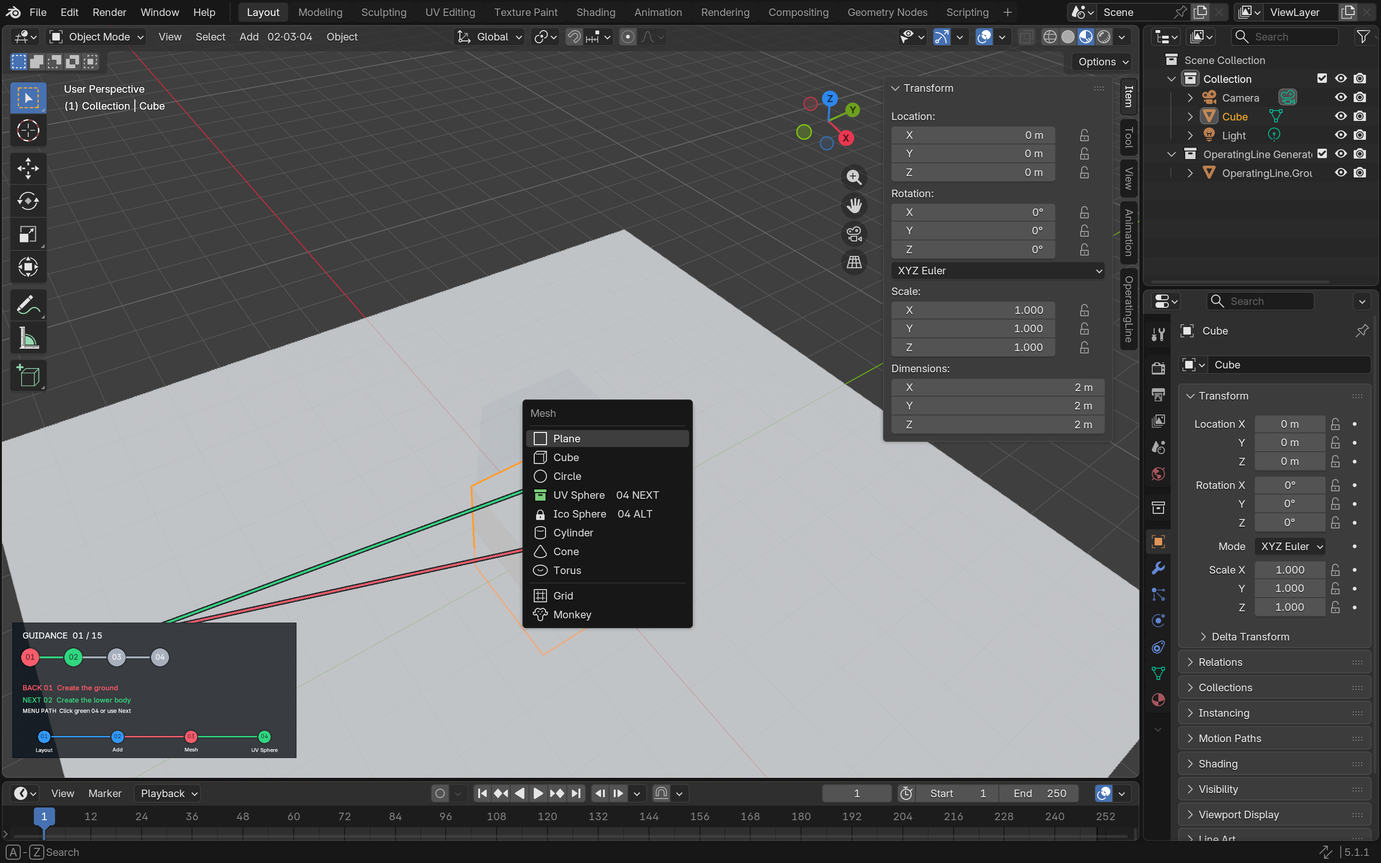
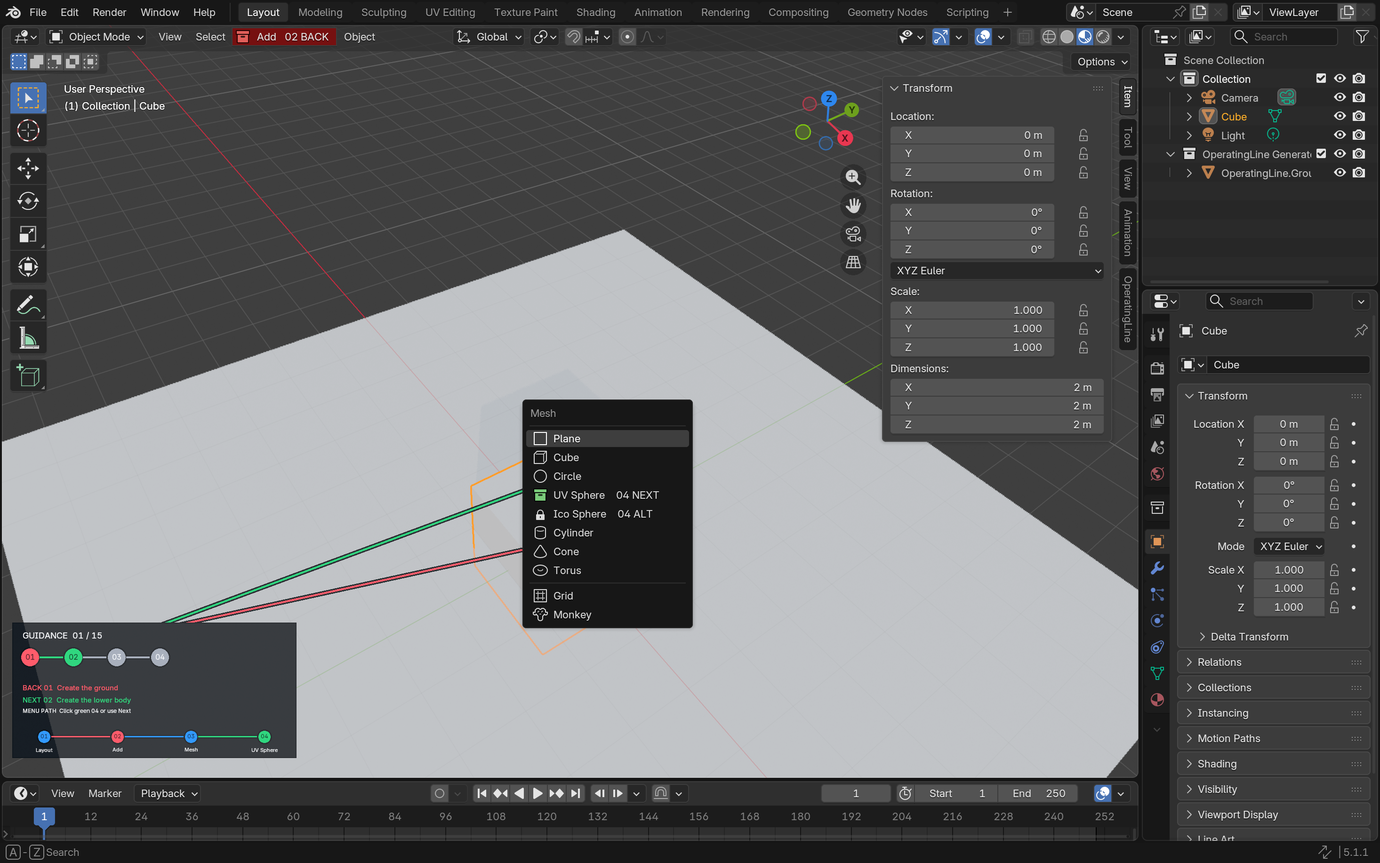
feat(blender): color guided menu states

diff --git a/tests/unit/blender/test_menu_guidance.py b/tests/unit/blender/test_menu_guidance.py
@@ -18,6 +18,7 @@ application = import_module(f"{PACKAGE_NAME}.application")
 domain = import_module(f"{PACKAGE_NAME}.domain")
 
 GuidanceState = application.GuidanceState
+MenuGuidanceRole = application.MenuGuidanceRole
 MenuGuidanceTracker = application.MenuGuidanceTracker
 ActionSpec = domain.ActionSpec
 TaskNode = domain.TaskNode
@@ -66,14 +67,16 @@ class MenuGuidanceTrackerTests(unittest.TestCase):
             ("Layout", "Add", "Mesh", "UV Sphere"),
         )
         self.assertEqual(
-            tuple(item.state for item in snapshot.items),
+            tuple(item.role for item in snapshot.items),
             (
-                GuidanceState.BACK,
-                GuidanceState.NEXT,
-                GuidanceState.LOCKED,
-                GuidanceState.LOCKED,
+                MenuGuidanceRole.CURRENT,
+                MenuGuidanceRole.NEXT,
+                MenuGuidanceRole.LOCKED,
+                MenuGuidanceRole.LOCKED,
             ),
         )
+        self.assertEqual(snapshot.items[0].state, GuidanceState.COMPLETED)
+        self.assertEqual(snapshot.items[1].state, GuidanceState.NEXT)
         self.assertEqual(snapshot.collapsed_ordinals("Add"), (2, 3, 4))
         self.assertEqual(snapshot.collapsed_ordinals("Mesh"), (3, 4))
 
@@ -82,25 +85,27 @@ class MenuGuidanceTrackerTests(unittest.TestCase):
         add_snapshot = self.tracker.snapshot(self.step)
         assert add_snapshot is not None
         self.assertEqual(
-            tuple(item.state for item in add_snapshot.items),
+            tuple(item.role for item in add_snapshot.items),
             (
-                GuidanceState.COMPLETED,
-                GuidanceState.BACK,
-                GuidanceState.NEXT,
-                GuidanceState.LOCKED,
+                MenuGuidanceRole.PREVIOUS,
+                MenuGuidanceRole.CURRENT,
+                MenuGuidanceRole.NEXT,
+                MenuGuidanceRole.LOCKED,
             ),
         )
+        self.assertEqual(add_snapshot.items[0].state, GuidanceState.BACK)
+        self.assertEqual(add_snapshot.items[1].state, GuidanceState.COMPLETED)
 
         self.assertTrue(self.tracker.reveal(self.step, "Mesh"))
         mesh_snapshot = self.tracker.snapshot(self.step)
         assert mesh_snapshot is not None
         self.assertEqual(
-            tuple(item.state for item in mesh_snapshot.items),
+            tuple(item.role for item in mesh_snapshot.items),
             (
-                GuidanceState.COMPLETED,
-                GuidanceState.COMPLETED,
-                GuidanceState.BACK,
-                GuidanceState.NEXT,
+                MenuGuidanceRole.COMPLETED,
+                MenuGuidanceRole.PREVIOUS,
+                MenuGuidanceRole.CURRENT,
+                MenuGuidanceRole.NEXT,
             ),
         )
         self.assertTrue(mesh_snapshot.accepts("mesh.primitive_uv_sphere_add"))
@@ -115,7 +120,8 @@ class MenuGuidanceTrackerTests(unittest.TestCase):
         assert snapshot is not None
         self.assertEqual(snapshot.step_id, replacement.id)
         self.assertEqual(snapshot.revealed_depth, 1)
-        self.assertEqual(snapshot.items[1].state, GuidanceState.NEXT)
+        self.assertEqual(snapshot.items[0].role, MenuGuidanceRole.CURRENT)
+        self.assertEqual(snapshot.items[1].role, MenuGuidanceRole.NEXT)
 
     def test_rejects_stale_reveal_and_operator_path_mismatches(self) -> None:
         stale = action_step(step_id="stale")

diff --git a/adapters/blender/extension/operating_line/presentation/native_menu_guidance.py b/adapters/blender/extension/operating_line/presentation/native_menu_guidance.py
@@ -5,7 +5,13 @@ from collections.abc import Callable
 import bpy
 from bpy.app.translations import contexts as i18n_contexts
 
-from ..application import GuidanceState, MenuGuidanceSnapshot, MenuGuidanceTracker
+from ..application import (
+    MenuGuidanceItem,
+    MenuGuidanceRole,
+    MenuGuidanceSnapshot,
+    MenuGuidanceTracker,
+)
+from ..visual_theme import STATE_ICONS
 
 
 _SUPPORTED_BLENDER_SERIES = {(4, 5), (5, 1)}
@@ -52,12 +58,24 @@ def _localized(value: str) -> str:
 
 def _menu_suffix(snapshot: MenuGuidanceSnapshot, item_label: str) -> str:
     item = next(item for item in snapshot.items if item.label == item_label)
-    if item.state is GuidanceState.BACK:
+    if item.role is MenuGuidanceRole.PREVIOUS:
         return f"{item.ordinal:02d} BACK"
-    return "·".join(
+    if item.role is MenuGuidanceRole.CURRENT:
+        return f"{item.ordinal:02d} CURRENT"
+    suffix = "·".join(
         f"{ordinal:02d}"
         for ordinal in snapshot.collapsed_ordinals(item_label)
     )
+    if item.role is MenuGuidanceRole.NEXT:
+        return f"{suffix} NEXT"
+    return suffix
+
+
+def _menu_item(
+    snapshot: MenuGuidanceSnapshot,
+    item_label: str,
+) -> MenuGuidanceItem:
+    return next(item for item in snapshot.items if item.label == item_label)
 
 
 def native_menu_snapshot() -> MenuGuidanceSnapshot | None:
@@ -122,10 +140,13 @@ def _draw_add_guided(self, context) -> None:
         layout.separator()
     layout.operator_context = "EXEC_REGION_WIN"
 
-    layout.menu(
+    mesh_item = _menu_item(snapshot, "Mesh")
+    mesh_row = layout.row(align=True)
+    mesh_row.alert = mesh_item.role is MenuGuidanceRole.PREVIOUS
+    mesh_row.menu(
         "VIEW3D_MT_mesh_add",
-        text=f"{_localized('Mesh')}    03·04 NEXT",
-        icon="COLLECTION_COLOR_04",
+        text=f"{_localized('Mesh')}    {_menu_suffix(snapshot, 'Mesh')}",
+        icon=STATE_ICONS[mesh_item.state],
     )
 
     layout.menu("VIEW3D_MT_curve_add", icon="OUTLINER_OB_CURVE")
@@ -227,9 +248,14 @@ def _draw_editor_guided(self, context) -> None:
     layout.menu("VIEW3D_MT_view")
     layout.menu("VIEW3D_MT_select_object")
     assert _original_add_label is not None
-    layout.menu(
-        "VIEW3D_MT_add",
+    add_item = _menu_item(snapshot, "Add")
+    add_row = layout.row(align=True)
+    add_row.alert = add_item.role is MenuGuidanceRole.PREVIOUS
+    add_row.operator(
+        "operating_line.open_add_menu",
         text=f"{_localized(_original_add_label)}   {_menu_suffix(snapshot, 'Add')}",
+        icon=STATE_ICONS[add_item.state],
+        depress=add_item.role is MenuGuidanceRole.CURRENT,
     )
     layout.menu("VIEW3D_MT_object")
     layout.template_node_operator_asset_root_items()

diff --git a/adapters/blender/extension/operating_line/application/menu_guidance.py b/adapters/blender/extension/operating_line/application/menu_guidance.py
@@ -1,6 +1,7 @@
 """Deterministic microsteps for version-tested Blender native menu paths."""
 
 from dataclasses import dataclass
+from enum import Enum
 
 from ..domain import TaskNode
 from .guidance import GuidanceState
@@ -18,13 +19,38 @@ _ALLOWLISTED_MESH_PATHS: dict[tuple[str, tuple[str, ...]], str] = {
 }
 
 
+class MenuGuidanceRole(str, Enum):
+    """Navigation role for a non-mutating native-menu microstep."""
+
+    COMPLETED = "completed"
+    PREVIOUS = "previous"
+    CURRENT = "current"
+    NEXT = "next"
+    LOCKED = "locked"
+
+
+_ROLE_STATES = {
+    MenuGuidanceRole.COMPLETED: GuidanceState.COMPLETED,
+    MenuGuidanceRole.PREVIOUS: GuidanceState.BACK,
+    MenuGuidanceRole.CURRENT: GuidanceState.COMPLETED,
+    MenuGuidanceRole.NEXT: GuidanceState.NEXT,
+    MenuGuidanceRole.LOCKED: GuidanceState.LOCKED,
+}
+
+
 @dataclass(frozen=True, slots=True)
 class MenuGuidanceItem:
     """One visible microstep inside an executable task-tree leaf."""
 
     ordinal: int
     label: str
-    state: GuidanceState
+    role: MenuGuidanceRole
+
+    @property
+    def state(self) -> GuidanceState:
+        """Map the menu role onto the shared visual color tokens."""
+
+        return _ROLE_STATES[self.role]
 
 
 @dataclass(frozen=True, slots=True)
@@ -104,16 +130,19 @@ class MenuGuidanceTracker:
             self._revealed_depth = 1
         operator_id, labels = target
         items: list[MenuGuidanceItem] = []
+        current_index = self._revealed_depth - 1
         for index, label in enumerate(labels):
-            if index < self._revealed_depth - 1:
-                state = GuidanceState.COMPLETED
-            elif index == self._revealed_depth - 1:
-                state = GuidanceState.BACK
-            elif index == self._revealed_depth:
-                state = GuidanceState.NEXT
+            if index < current_index - 1:
+                role = MenuGuidanceRole.COMPLETED
+            elif index == current_index - 1:
+                role = MenuGuidanceRole.PREVIOUS
+            elif index == current_index:
+                role = MenuGuidanceRole.CURRENT
+            elif index == current_index + 1:
+                role = MenuGuidanceRole.NEXT
             else:
-                state = GuidanceState.LOCKED
-            items.append(MenuGuidanceItem(index + 1, label, state))
+                role = MenuGuidanceRole.LOCKED
+            items.append(MenuGuidanceItem(index + 1, label, role))
         return MenuGuidanceSnapshot(
             step_id=step.id,
             operator_id=operator_id,
@@ -142,6 +171,7 @@ class MenuGuidanceTracker:
 
 __all__ = (
     "MenuGuidanceItem",
+    "MenuGuidanceRole",
     "MenuGuidanceSnapshot",
     "MenuGuidanceTracker",
 )

diff --git a/tests/e2e/blender/capture_overlay.py b/tests/e2e/blender/capture_overlay.py
@@ -512,14 +512,20 @@ def prepare_view():
 
     if STATE in {"menu-add", "menu-mesh"}:
         bpy.context.preferences.view.show_tooltips = False
-        menu_name = (
-            "VIEW3D_MT_add" if STATE == "menu-add" else "VIEW3D_MT_mesh_add"
-        )
         bpy.context.window.cursor_warp(1400, 900)
         with bpy.context.temp_override(area=area, region=region, space_data=space):
-            result = bpy.ops.wm.call_menu("EXEC_DEFAULT", name=menu_name)
+            if STATE == "menu-add":
+                result = bpy.ops.operating_line.open_add_menu("EXEC_DEFAULT")
+            else:
+                result = bpy.ops.wm.call_menu(
+                    "EXEC_DEFAULT",
+                    name="VIEW3D_MT_mesh_add",
+                )
         print(f"OperatingLine menu invocation result: {sorted(result)}", flush=True)
-        assert result in ({"INTERFACE"}, {"RUNNING_MODAL"})
+        if STATE == "menu-add":
+            assert result == {"FINISHED"}
+        else:
+            assert result in ({"INTERFACE"}, {"RUNNING_MODAL"})
         bpy.app.timers.register(settle_menu_capture, first_interval=0.15)
         return None
 
@@ -638,10 +644,11 @@ def assert_guidance_pixels():
     }:
         assert next_step > 0.0003
         assert locked > 0.0001
-        assert completed < 0.00003
-        # The supported first leaf now includes the red current microstep
-        # `01 Layout`, while the global plan still has no completed/Back leaf.
-        assert 0.00003 < back < 0.0003
+        # Native-menu navigation starts at the blue current context
+        # `01 Layout`, with `02 Add` as the green next target. There is no
+        # red previous/BACK menu target until a nested menu has opened.
+        assert 0.00003 < completed < 0.0003
+        assert back < 0.00003
     elif STATE in {"forward", "back", "menu-add", "menu-mesh"}:
         assert completed > 0.00005
         assert back > 0.0003

diff --git a/adapters/blender/extension/operating_line/presentation/operators.py b/adapters/blender/extension/operating_line/presentation/operators.py
@@ -132,6 +132,23 @@ class OPERATINGLINE_OT_next(bpy.types.Operator):
         return _execute_next(self)
 
 
+class OPERATINGLINE_OT_open_add_menu(bpy.types.Operator):
+    bl_idname = "operating_line.open_add_menu"
+    bl_label = "Open Guided Add Menu"
+    bl_description = "Open Blender's native Add menu without changing the scene"
+    bl_options = {"INTERNAL"}
+
+    def execute(self, _context):
+        result = bpy.ops.wm.call_menu("EXEC_DEFAULT", name="VIEW3D_MT_add")
+        if result not in ({"INTERFACE"}, {"RUNNING_MODAL"}):
+            self.report({"ERROR"}, "Blender could not open the native Add menu")
+            return {"CANCELLED"}
+        return {"FINISHED"}
+
+    def invoke(self, context, _event):
+        return self.execute(context)
+
+
 class OPERATINGLINE_OT_guided_menu_action(bpy.types.Operator):
     bl_idname = "operating_line.guided_menu_action"
     bl_label = "Execute Guided Plan Step"
@@ -558,6 +575,7 @@ CLASSES = (
     OPERATINGLINE_OT_run_replan_provider,
     OPERATINGLINE_OT_start,
     OPERATINGLINE_OT_next,
+    OPERATINGLINE_OT_open_add_menu,
     OPERATINGLINE_OT_guided_menu_action,
     OPERATINGLINE_OT_back,
     OPERATINGLINE_OT_toggle_overlay,

diff --git a/tests/integration/blender/test_extension.py b/tests/integration/blender/test_extension.py
@@ -3205,6 +3205,7 @@ def main() -> None:
         "operating_line_revision_workspace_expanded",
     )
     assert not hasattr(bpy.types, "OPERATINGLINE_OT_remove_revision_reference")
+    assert not hasattr(bpy.types, "OPERATINGLINE_OT_open_add_menu")
     assert not hasattr(bpy.types, "OPERATINGLINE_OT_guided_menu_action")
     assert not hasattr(bpy.types, "OPERATINGLINE_PT_sidebar")
     assert not registered_companion.timer_registered

diff --git a/adapters/blender/extension/operating_line/application/__init__.py b/adapters/blender/extension/operating_line/application/__init__.py
@@ -9,6 +9,7 @@ from .guidance import (
 )
 from .menu_guidance import (
     MenuGuidanceItem,
+    MenuGuidanceRole,
     MenuGuidanceSnapshot,
     MenuGuidanceTracker,
 )
@@ -32,6 +33,7 @@ __all__ = (
     "GoalRequestState",
     "InitialPlanRunState",
     "MenuGuidanceItem",
+    "MenuGuidanceRole",
     "MenuGuidanceSnapshot",
     "MenuGuidanceTracker",
     "build_goal_request",

diff --git a/DESIGN.md b/DESIGN.md
@@ -50,7 +50,7 @@
 - Honest anchors: resolve model/world targets when possible. An allowlisted, version-tested native menu adapter may annotate the real menu labels and route its final item into the exact accepted action; every other `operator.menuPath` remains a semantic breadcrumb explicitly labeled unavailable. Never infer arbitrary widget rectangles or draw a plausible but false line.
 - Progressive focus: show at most the most relevant completed, Back, and Next steps in the viewport while retaining the complete hierarchy in the Sidebar.
 - Host-native control: use Blender Panel, Operator, draw handler, `gpu`, and `blf`; do not depend on a transparent Electron window over Blender.
-- Tradeoffs: Blender `UILayout` does not expose arbitrary per-button text colors or stable rectangles for every built-in widget. Selected native menus therefore combine right-side ordinal/state text with Blender color icons, while the enlarged viewport card owns exact red/green/blue/gray lines and badges. The `Layout` workspace context is shown truthfully in that card rather than positioned with guessed tab coordinates; reserve arbitrary cross-region arrows or custom gizmos for a later interactive-anchor milestone.
+- Tradeoffs: Blender `UILayout` does not expose arbitrary per-button text/background colors or stable rectangles for every built-in widget. The guided header entry therefore uses Blender's native blue depressed background for CURRENT and red `alert` background for the immediate previous/BACK state. NEXT uses the built-in green color block and explicit text because Blender exposes no per-button green background. The enlarged viewport card owns the exact red/green/blue/gray filled badges, lines, and labels. The `Layout` workspace context is shown truthfully in that card rather than positioned with guessed tab coordinates; reserve arbitrary cross-region arrows or custom gizmos for a later interactive-anchor milestone.
 
 ## Visual language
 
@@ -65,7 +65,7 @@
 
 - Existing components to reuse: Blender Sidebar `Panel`, `UILayout` rows/boxes/operators, task-tree branch operator, `SpaceView3D.draw_handler_add`, `gpu` primitives, and `blf` text.
 - New/changed components: versioned planning-phase, initial Planner Packet, Replanning Prompt Packet, Proposal/replan-draft, Planner Provider descriptor/request/result/error, asynchronous host-mediated Replan Run and strict quality/locality-report contracts; provider SDK interface, explicit registry and shared bounded invocation coordinator; optional official-SDK OpenAI Responses provider and a separate opt-in runtime composition root; deterministic prompt-packet builders and planning-quality/locality evaluators; shared guidance-state derivation; shared visual tokens; state-aware tree rows; node `Ref` operators for active and proposed trees; one collapsible native Revision Workspace with base-plan/next-turn label, structured reference rows, per-reference Remove, a separate message field, explicit Clear and Send controls, Provider selection/disclosure/confirmation, Run status, same-area thread/proposal/diff/decision log, and Load Older Turns; Back/Next status controls; enlarged numbered viewport card; four-state menu-path badges and connectors; an allowlisted Blender native-menu adapter whose final guided item invokes the same accepted action as `Next`; semantic fallback for every unsupported menu path; unified Show/Hide Guidance behavior that never hides Revision Workspace; read-only proposal tree; Accept Plan and Reject Plan operators.
-- Variants and states: accepted walkthrough steps use `completed`, `back`, `next`, and `locked`. A supported menu path has one contextual microstep, one immediate red Back microstep, one green Next microstep, earlier blue completed microsteps, and later gray locked microsteps; opening `Add` or hovering/opening `Mesh` reveals the next depth without mutating the scene. Clicking the exact guided final item or clicking `Next` invokes the same action once, advances the same `active_index`, and produces the same rollback receipt. Revision Workspace uses `expanded` and `collapsed` without changing its contents or availability. Proposal lifecycle uses `available`, `accepted`, and `rejected`; request-linked proposals additionally use `diff_available`. Revision requests use `empty`, `draft`, `base_mismatch`, `queued`, `acknowledged`, and `error`, with `new_thread` or `continue_thread` context; queued/acknowledged requests never imply a model has replied. Provider handoff uses `provider_unselected`, `provider_selected`, `authorization_required`, `queued`, `generating`, `proposal_created`, `needs_revision`, `failed`, and `interrupted`; retries always return to `authorization_required` with a new generation ID. Revision-history turns use `awaiting_proposal`, `awaiting_decision`, `accepted`, and `rejected`, plus loading/complete pagination copy. Synchronous Blender actions do not pretend to display a state that cannot be rendered during execution.
+- Variants and states: accepted walkthrough actions use `completed`, `back`, `next`, and `locked`. Non-mutating native-menu navigation uses a separate role sequence: the current menu depth is blue, its immediate previous depth is red/BACK, its immediate next depth is green/NEXT, older visited depths are blue completed, and later depths are gray locked. Opening `Add` or hovering/opening `Mesh` changes only these transient roles and never the accepted action index or scene. Clicking the exact guided final item or clicking `Next` invokes the same action once, advances the same `active_index`, and produces the same rollback receipt. Revision Workspace uses `expanded` and `collapsed` without changing its contents or availability. Proposal lifecycle uses `available`, `accepted`, and `rejected`; request-linked proposals additionally use `diff_available`. Revision requests use `empty`, `draft`, `base_mismatch`, `queued`, `acknowledged`, and `error`, with `new_thread` or `continue_thread` context; queued/acknowledged requests never imply a model has replied. Provider handoff uses `provider_unselected`, `provider_selected`, `authorization_required`, `queued`, `generating`, `proposal_created`, `needs_revision`, `failed`, and `interrupted`; retries always return to `authorization_required` with a new generation ID. Revision-history turns use `awaiting_proposal`, `awaiting_decision`, `accepted`, and `rejected`, plus loading/complete pagination copy. Synchronous Blender actions do not pretend to display a state that cannot be rendered during execution.
 - Token/component ownership: host-neutral step/anchor, planning-phase/intent/planning-packet/replanning-packet/quality/locality-report, provider descriptor/request/result/error, Replan Run request/status, proposal/decision, node-reference, revision-thread, Plan-diff, revision-request, revision-history page, and Eval bundle semantics stay in `packages/protocol`; the minimal provider interface, including optional `replan()`, stays in `packages/planner-provider-sdk`; the official SDK adapter, OpenAI request policy and sanitized response extraction stay in `packages/openai-planner-provider`; explicit environment configuration and OpenAI-only composition stay in `services/openai-runtime`; adapter-specific phase-to-action assignments stay in each versioned ActionCatalog; proposal/revision-request persistence, Provider generation and Run lifecycle provenance, thread uniqueness, idempotency, and stable event sequencing stay in `packages/persistence`; deterministic prompt rendering, provider registration and shared bounded invocation, strict output/identity/catalog validation, quality/locality evaluation, thread continuity and accepted-parent validation, canonical generated-draft matching, asynchronous Run coordination, deterministic diff computation, history joins/pagination, Eval relation filtering, summaries, and content hashing stay in the Orchestrator; model client, credentials, network/cost policy and `AbortSignal` cooperation stay inside each injected provider plugin; MCP/HTTP clients may continue the separate generate/propose path, while a host-confirmed Replan Run composes those existing authorities without changing them; deterministic accepted-session, provider disclosure/run presentation, proposal preview, diff/history validation, page merging, and local Revision Workspace draft lineage stay in Blender application code; Blender RGBA and drawing constants stay in Blender presentation/infrastructure code.
 
 ## Accessibility
@@ -123,7 +123,7 @@
 ## Implementation constraints
 
 - Framework/styling system: Blender Python Extension APIs only for the in-host surface. Electron is not part of the Blender visual layer.
-- Design-token constraints: Sidebar colors must use APIs supported by both Blender versions; viewport colors use centralized RGBA tokens. Native menu annotations use label text plus built-in color icons because `UILayout` has no public arbitrary text-color API. Do not ship per-theme pixel coordinates.
+- Design-token constraints: Sidebar colors must use APIs supported by both Blender versions; viewport colors use centralized RGBA tokens. Native menu annotations use label text, Blender's red `alert` and blue `depress` states, and built-in color-block icons because `UILayout` has no public arbitrary per-control text/background color API. Do not ship per-theme pixel coordinates or mutate the user's global theme.
 - Performance constraints: draw callbacks perform no network calls or scene mutation, derive only a small relevant-step window, and avoid persistent per-frame allocations where practical.
 - Compatibility constraints: use public Blender 4.5/5.1 APIs; keep host-neutral protocol anchors semantic; limit native menu replacement to exact allowlisted operator/menu-path pairs whose built-in menu structure is verified on both supported versions; restore every patched class label/draw method on Guidance hide and Extension unregister; do not require a Blender Core PR.
 - Proposal/request constraints: proposal delivery shares the existing authenticated loopback poll; proposal, decision, goal-request, revision-thread, Plan-diff, revision-request, history, Initial Plan Run, and Replan Run payloads are strict, versioned, persisted, and idempotent per companion instance. A goal request carries only immutable host intent, exact adapter/instance/catalog and a reserved Plan ID; it never carries Provider credentials or calls a model. An external planner must submit the complete draft with the same request ID, while an Initial Plan Run additionally requires exact acknowledgement, explicit Provider selection, per-call disclosure confirmation, goal/instance-bound generation fingerprint, and atomic generation-to-proposal provenance. A revision request carries the complete immutable base Plan so bundled/offline-origin plans can be replanned without an undocumented server cache. A continued turn must point to the current head, exactly reuse its linked Proposal Plan, and prove that Proposal was accepted in the same instance; current persistence rejects duplicate turns and parents. History is joined from normalized facts, newest-page-first with `beforeTurn`, not duplicated into a mutable chat table. A Run POST persists authorization and returns promptly; its Orchestrator background task reuses provider generation and canonical propose, while status polling never carries raw output or reasoning. An instance may have one pending Goal together only with its exact nonterminal Initial Plan Run; Initial and Replan Runs are mutually exclusive, and every targeted Proposal writer atomically competes for one unresolved Proposal slot. A concurrent external winner makes the Run fail safely instead of hiding or claiming another Proposal. Goal-origin Planner Packets include only the exact target instance state. Blender retains the exact acknowledged request and generation identity until its Run is terminal: exact repeats are no-ops, active-run workspace operations cannot clear it, and a non-active Plan replacement invalidates obsolete revision context so a late acknowledgement cannot revive it. Proposal delivery and Run status are independently ordered, so Blender binds an initial result only by exact `(goalRequestId, proposalId)` and a replan result by `(revisionRequestId, proposalId)`; it never converts capacity pressure or validation failures into a user Reject decision, and it rechecks `planDiff.basePlan` against the active Session before accepting a replan. Accept/Reject creates one stable decision payload on the main thread and retains it across reconnect/response loss until an exact acknowledgement returns; invalid or stale proposals are quarantined without a decision. Permanent goal-delivery 4xx responses stop that payload's current retry while polling continues, and transient retries use bounded backoff. A legacy request-linked Proposal without a verifiable diff base remains read-only and rejectable, but Accept fails closed with an explicit reason. Restart reconciliation uses exact completed and generation-proposal evidence without invoking the Provider again; only uncertain work becomes interrupted and needs a new generation ID. Goal entry and Revision Workspace state are Blender-local presentation/application state: collapse and Guidance visibility do not erase them, references remain structured records separate from the message, and an attempted cross-base selection is rejected without silently clearing or rebinding the draft. The background thread handles only short HTTP operations; goal/request construction, reference selection/removal, request/thread construction, provider disclosure/run-state validation, plan/diff/history validation, history page merging, preview-session construction, acceptance, rejection, and session replacement occur on Blender's main thread.

diff --git a/README.md b/README.md
@@ -616,9 +616,11 @@ Blender 公开 Python UI API 不提供任意内置控件的稳定屏幕矩形。
 真实目标线；版本适配器只在 Guidance 可见时替换经过 Blender 4.5/5.1 测试的
 `Add → Mesh → Plane/UV Sphere` 菜单绘制，并在隐藏 Guidance 或卸载 Extension 时恢复原始方法。
 `Layout` 工作区上下文保留在放大的视口卡片中，不猜测页签坐标；其他 `operator` 锚点继续显示操作 ID
-或 `menuPath` 语义路径并标记 `UI target unavailable`。原生菜单以彩色图标和 `BACK/NEXT/ALT` 文案
-表达状态，因为 `UILayout` 不支持任意文字或按钮背景色；不匹配当前计划的 `ALT` 项会拒绝执行，
-不会产生未跟踪对象。
+或 `menuPath` 语义路径并标记 `UI target unavailable`。原生菜单以红/蓝/绿状态块和
+`BACK/CURRENT/NEXT/ALT` 文案表达状态；顶部 Add 入口的上一步/BACK 使用原生红色警示背景，当前
+使用原生蓝色按下背景。Blender 没有逐按钮绿色背景 API，所以下一步使用绿色状态块和 NEXT 文案，
+视口步骤卡片继续显示完整的绿色填充徽标与连线，避免修改全局主题或猜测控件像素坐标。不匹配当前计划的
+`ALT` 项会拒绝执行，不会产生未跟踪对象。
 
 本地 Start/Next/Back/Show/Hide 操作会随 Blender UI 事件自然重绘。只由 Companion timer 更新的
 远端计划或连接文案，可能要等到 Blender 下一次正常界面重绘后显示；当前版本不调用 4.5/5.1
